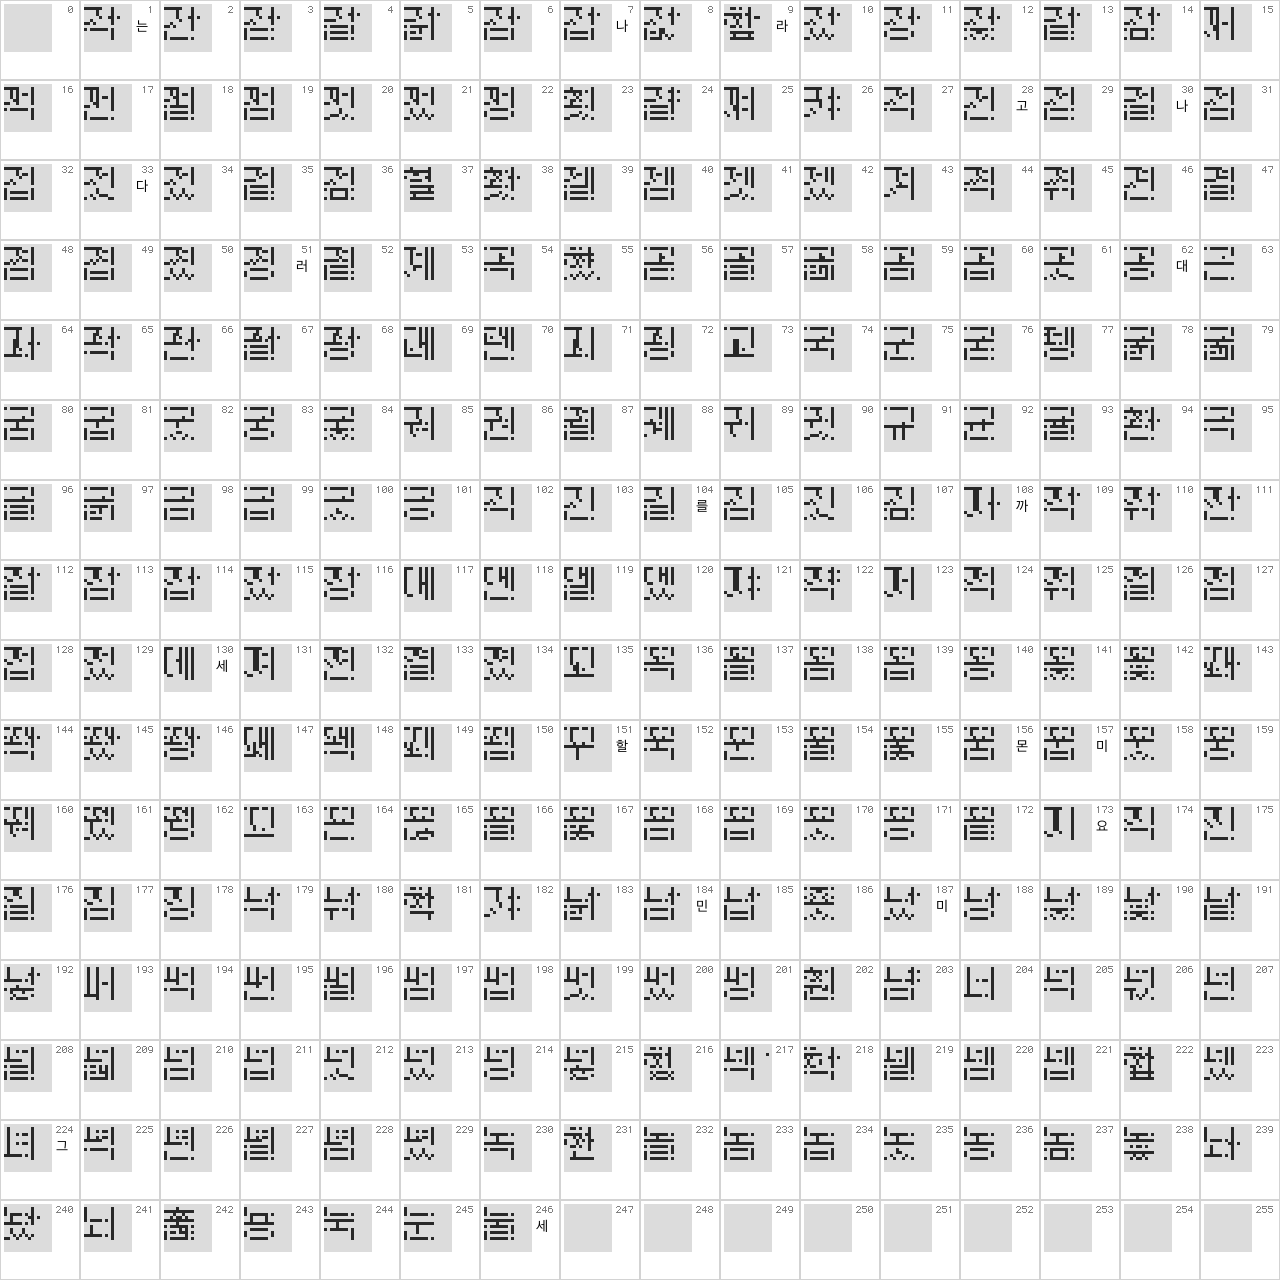
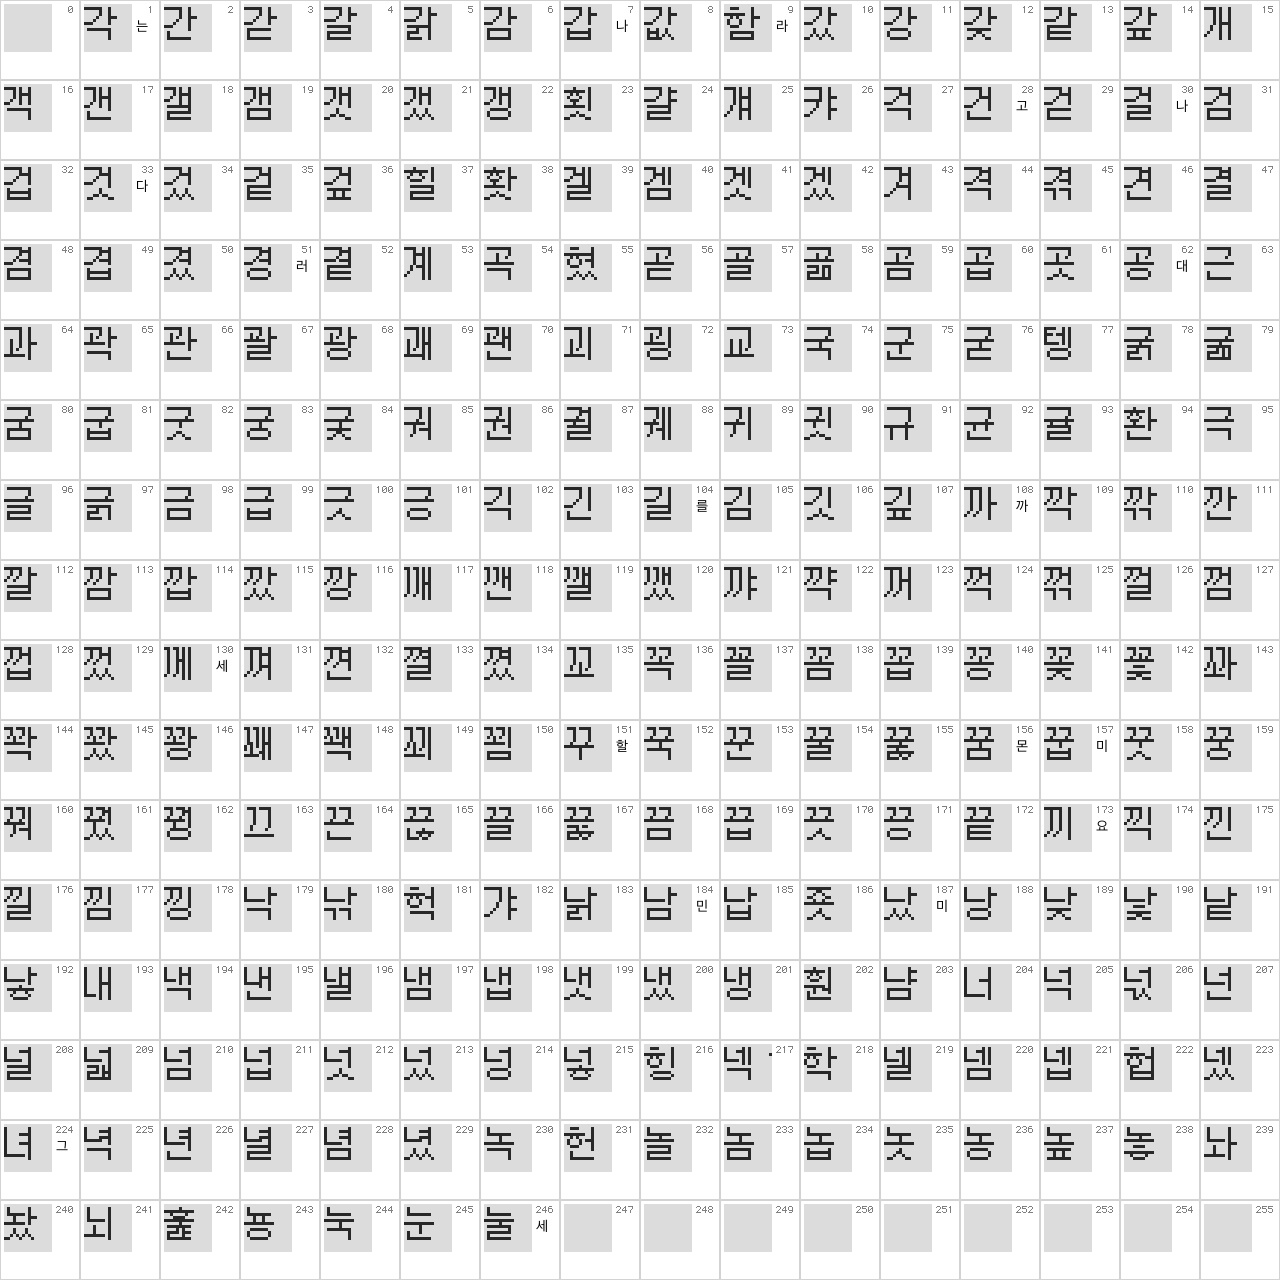
moneo: fix transform — drop spurious nibble swap (variant B)
The disasm agent's transform applied a per-byte nibble swap to "match"
the staging-ground-truth.json hex string, but that hex string itself
had nibbles swapped during serialization (each character treated as a
nibble in low-first-then-high order). The two swaps cancel for byte-
matching against GT but produce DOUBLE-SWAPPED bytes when rendered to
screen.

Variant B (no nibble swap) is what the engine actually writes to
staging and ultimately displays. Verified visually: re-rendered
sheets/page{1..6}.png now show clean recognizable Hangul:
- page 1: 각 간 갈 갉 감 갑 값 합 갔 강 갖 같 ...
- page 3: 맹 머 먹 먼 멀 멈 멉 ... 박 밖 받 발 ...

Visual inspection also confirms canonical glyph-map.json has many
errors beyond the 6 corrected this session (e.g., F1,1 canon=는 is
actually 간; F3,113 canon=다 is actually 불; F1,156 canon=몬 is
actually 꿈). The clean sheets enable full re-labeling.

diff --git a/tools/moneo/decoded_blit.py b/tools/moneo/decoded_blit.py
@@ -98,9 +98,10 @@ _TABLE2 = _bt["table2"]
 def blit_subtile(rom_bytes16: bytes) -> bytes:
     """Apply the engine's blit_tile (0x08002F5C) to 16 ROM bytes.
 
-    Returns the 32 output bytes that get written into the staging buffer
-    for one 8x8 sub-tile (with the nibble-swap convention used by the
-    staging-ground-truth dump format).
+    Returns the 32 output bytes for one 8x8 4bpp sub-tile, exactly as the
+    engine writes them. Visual verification (variant B): produces clean
+    recognizable Hangul when rendered at standard GBA tile-byte semantics
+    (low nibble = leftmost pixel of a pair).
     """
     if len(rom_bytes16) < 16:
         raise ValueError("need at least 16 ROM bytes")
@@ -112,15 +113,9 @@ def blit_subtile(rom_bytes16: bytes) -> bytes:
         b = rom_bytes16[pair * 2 + (1 if k % 2 == 0 else 0)]
         idx = _TABLE1[b]
         hw = _TABLE2[idx]
-        # Halfword written via STRH; little-endian -> low byte then high byte.
-        # Apply nibble-swap-per-byte to match the staging-ground-truth string
-        # convention (high-pixel-first within each byte).
-        lo = hw & 0xFF
-        hi = (hw >> 8) & 0xFF
-        lo_sw = ((lo << 4) & 0xF0) | ((lo >> 4) & 0x0F)
-        hi_sw = ((hi << 4) & 0xF0) | ((hi >> 4) & 0x0F)
-        out[k * 2] = lo_sw
-        out[k * 2 + 1] = hi_sw
+        # Halfword written via STRH little-endian -> low byte then high byte.
+        out[k * 2] = hw & 0xFF
+        out[k * 2 + 1] = (hw >> 8) & 0xFF
     return bytes(out)
 
 
